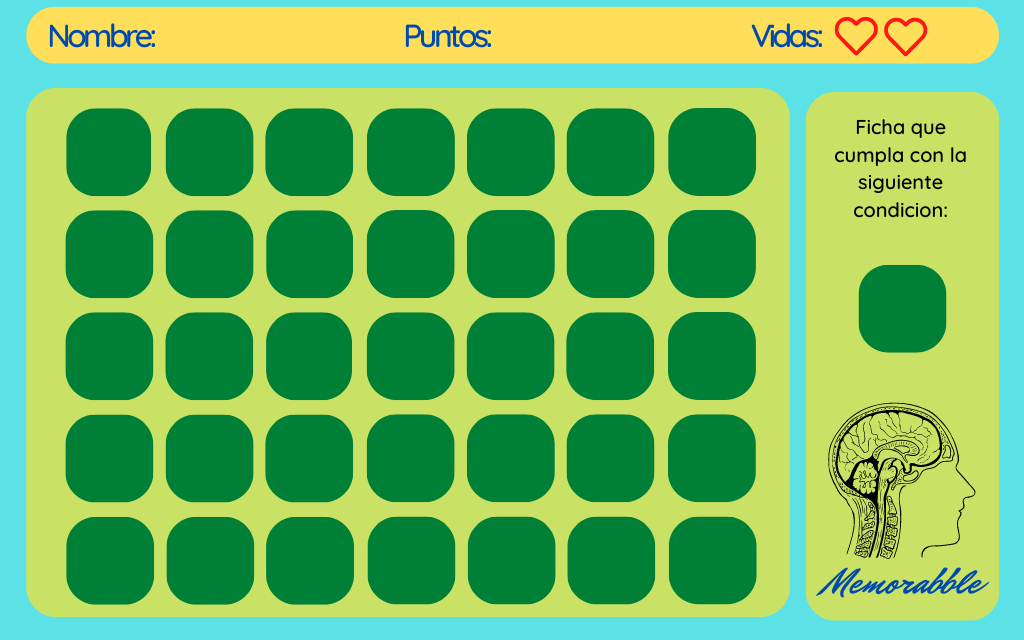
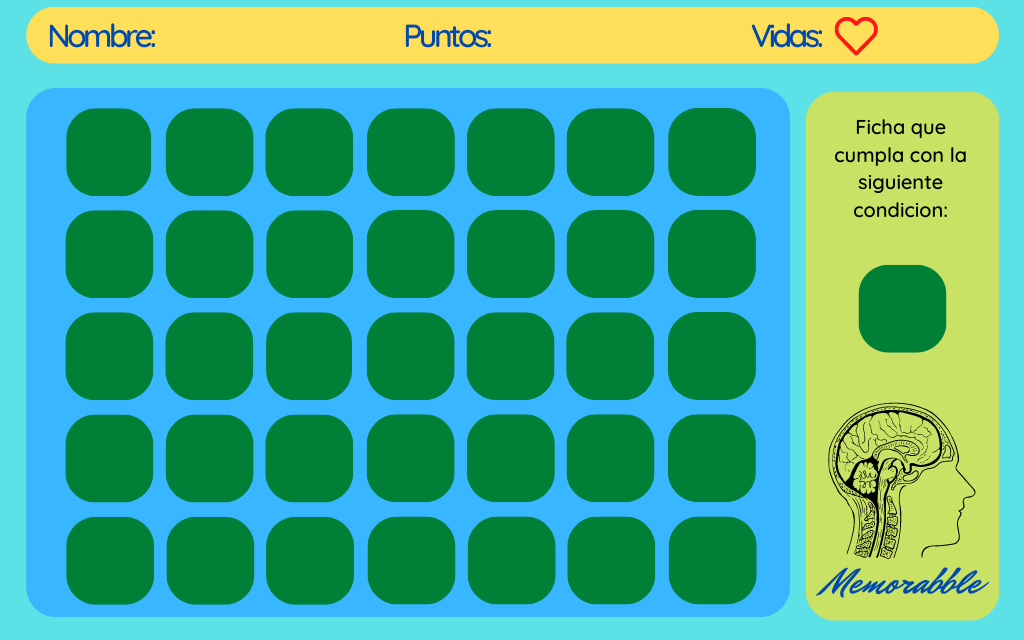
Finalización del proyecto

Changed region(s): [[0.0, 0.125, 0.7812, 0.9688], [0.8438, 0.0312, 0.9062, 0.0938]]

diff --git a/src/Controller/ControllerJuego.java b/src/Controller/ControllerJuego.java
@@ -2,7 +2,10 @@ package Controller;
 
 import Modelo.ModeloPrincipal;
 import Vistas.Tarjeta;
+import Vistas.VistaFinal;
 import Vistas.VistaJuego;
+import java.awt.AWTException;
+import java.awt.Robot;
 import java.awt.event.ActionEvent;
 import java.awt.event.ActionListener;
 import java.awt.event.KeyEvent;
@@ -28,11 +31,15 @@ public final class ControllerJuego{
     private final ModeloPrincipal modelo;
     private final VistaJuego vistaJuego;
     private ArrayList<Integer> tarjetaActualActiva;
+    private ArrayList<Integer> tarjetaCorrecta;
+    
     
 
     public ControllerJuego(ModeloPrincipal modelo, VistaJuego vistaJuego){
         this.modelo = modelo;
         this.vistaJuego = vistaJuego;
+        
+        modelo.getJugador().comezarTiempo();
         
         vistaJuego.iniciarComponentesAhorcado();
         vistaJuego.configurarVistaAhorcado();
@@ -43,6 +50,15 @@ public final class ControllerJuego{
         vistaJuego.setNombre(modelo.getJugador().getNombre());
         
         agregarControllers();
+        
+        Robot r = null;
+        try {
+            r = new Robot();
+            r.keyPress(KeyEvent.VK_ENTER);
+            r.keyRelease(KeyEvent.VK_ENTER);
+        } catch (AWTException ex) {
+            Logger.getLogger(ControllerJuego.class.getName()).log(Level.SEVERE, null, ex);
+        }
         
         //
     }
@@ -63,12 +79,50 @@ public final class ControllerJuego{
         public void mouseClicked(MouseEvent event){
             JLabel cualquierLetraPresionada = vistaJuego.saberSiUnaTarjetaFuePresionada( (JLabel) event.getSource());
             
-            
-            if (event.getSource() == cualquierLetraPresionada){
+            if(modelo.getJugador().getVidas() != 1){
+                if (event.getSource() == cualquierLetraPresionada){
                 Tarjeta tarjetaPresionada = vistaJuego.saberTarjetaPresionada((JLabel) event.getSource());
-                System.out.println("Se precionó");
                 System.out.println(tarjetaPresionada.getPosicionTablero());
+                
+                System.out.println("Tarjeta Correcta: " + tarjetaCorrecta);
+                
+                    if(tarjetaCorrecta.equals(tarjetaPresionada.getPosicionTablero())){
+                        modelo.getJugador().setPuntos(modelo.getJugador().getPuntos() + 100);
+                        modelo.getJugador().setAciertos(modelo.getJugador().getAciertos() + 1);
+                        System.out.println("Vidas Jugador: " + modelo.getJugador().getVidas());
+                        System.out.println("Aciertos Jugador: " + modelo.getJugador().getAciertos());
+                        vistaJuego.setPuntos(modelo.getJugador().getPuntos());
+                    }else{
+                        modelo.getJugador().setVidas(modelo.getJugador().getVidas() - 1);
+                        vistaJuego.cambiarImagenFondo(modelo.getJugador().getVidas());
+                        System.out.println("Vidas Jugador: " + modelo.getJugador().getVidas());
+                        System.out.println("Aciertos Jugador: " + modelo.getJugador().getAciertos());
+                    }
+                }else{
+                    
+                }
+                
+                Robot r = null;
+                try {
+                    r = new Robot();
+                    r.keyPress(KeyEvent.VK_ENTER);
+                    r.keyRelease(KeyEvent.VK_END);
+                } catch (AWTException ex) {
+                    Logger.getLogger(ControllerJuego.class.getName()).log(Level.SEVERE, null, ex);
+                    
+                }
+                
+            }else{
+                modelo.getJugador().terminarTiempo();
+                modelo.getJugador().calcularTiempo();
+                vistaJuego.dispose();
+                VistaFinal vistafinal = new VistaFinal();
+                ControllerFinal controller = new ControllerFinal(modelo, vistafinal);
             }
+            
+            
+            
+            
 
         }
         
@@ -164,17 +218,49 @@ public final class ControllerJuego{
                     }
                 }
                 case KeyEvent.VK_SPACE -> {
+                    Robot r = null;
+                    try {
+                        r = new Robot();
+                    } catch (AWTException ex) {
+                        Logger.getLogger(ControllerJuego.class.getName()).log(Level.SEVERE, null, ex);
+                    }
+                        r.keyPress(KeyEvent.VK_ENTER);
+                        r.keyRelease(KeyEvent.VK_ENTER);
+                                        
+ 
+                }
+                case KeyEvent.VK_W -> {
+                    try {   
+
+                        Thread.sleep(2000);
+                       vistaJuego.limpiarTablero();
+                        System.out.println("hola");
+                    } catch (Exception e) {
+                        System.out.println("e");
+                    }  
                     
+                    
+ 
                 }
                 case KeyEvent.VK_ENTER -> {
                     ArrayList<ArrayList<Integer>> coordenadas = modelo.getJuego().coordenadaAleatoria(5);
                     ArrayList<String> colores = modelo.getJuego().colorAleatorio(5);
                     ArrayList<String> figuras = modelo.getJuego().figuraAleatoria(5);
-
+                    
+                    
                     vistaJuego.ponerFichasEnJuego(coordenadas, colores, figuras);
+                    vistaJuego.colocarTarjetaCorrecta(coordenadas.get(0), colores.get(0), figuras.get(0));
+                    tarjetaCorrecta = coordenadas.get(0);
                     
-                               
-                    
+                    Robot r = null;
+                    try {
+                        r = new Robot();
+                        r.keyPress(KeyEvent.VK_W);
+                        r.keyRelease(KeyEvent.VK_W);
+                    } catch (AWTException ex) {
+                        Logger.getLogger(ControllerJuego.class.getName()).log(Level.SEVERE, null, ex);
+                    }
+                        
                 }
                 default -> {
                 }

diff --git a/src/Vistas/VistaFinal.java b/src/Vistas/VistaFinal.java
@@ -23,10 +23,9 @@ public class VistaFinal extends JFrame{
     private JLabel lblCerrar;
     private JLabel lblVolver;
     
-    private JLabel lblJugadas;
-    private JLabel lblPerdidas;
-    private JLabel lblGanadas;
     private JLabel lblNombre;
+    private JLabel lblTiempo;
+    private JLabel lblPuntos;
     
     private JPanel jpContenidoGeneral;
 
@@ -66,17 +65,14 @@ public class VistaFinal extends JFrame{
         lblVolver.addMouseListener(listenControles);
     }
     
-    public void setGanadas(double nuevoNombre){
-        lblGanadas.setText(String.valueOf(nuevoNombre));
+    public void setTiempo(String nuevoTiempo){
+        lblTiempo.setText(String.valueOf(nuevoTiempo));
     }
     
-    public void setPerdidas(double nuevoNombre){
-        lblPerdidas.setText(String.valueOf(nuevoNombre));
+    public void setPuntos(int nuevosPuntos){
+        lblPuntos.setText(String.valueOf(nuevosPuntos));
     }
     
-    public void setJugadas(double nuevoNombre){
-        lblJugadas.setText(String.valueOf(nuevoNombre));
-    }
     
     public void setNombre(String nuevoNombre){
         if(nuevoNombre.length() > 10){
@@ -99,9 +95,9 @@ public class VistaFinal extends JFrame{
     public void asignacionImagenesALabels(){
         /* Cargado de imagenes */
         
-        Icon imagenFinal = new ImageIcon("src\\Imagenes\\27-Final-img.gif");
-        Icon imagenVolver = new ImageIcon("src\\Imagenes\\13-Volver-img.gif");
-        Icon imagenCerrar = new ImageIcon("src\\Imagenes\\04-Cerrar-img.gif");
+        Icon imagenFinal = new ImageIcon("src\\Imagenes\\27-Final-img.png");
+        Icon imagenVolver = new ImageIcon("src\\Imagenes\\13-Volver-img.png");
+        Icon imagenCerrar = new ImageIcon("src\\Imagenes\\04-Cerrar-img.png");
         
         /* Inicializacion de imagenes */
         
@@ -125,10 +121,9 @@ public class VistaFinal extends JFrame{
     }   
     
     public void posicionarElementos(){
-        lblNombre.setBounds(250, 230 , 500, 50);
-        lblJugadas.setBounds(465, 330 , 500, 50);
-        lblGanadas.setBounds(531, 430 , 500, 50);
-        lblPerdidas.setBounds(531, 530 , 500, 50);
+        lblNombre.setBounds(250,295, 500, 50);
+        lblTiempo.setBounds(250,425 , 500, 50);
+        lblPuntos.setBounds(250,355 , 500, 50);
         lblFinal.setBounds(0,0,1024,640);
         lblCerrar.setBounds(930,10,240,80);
         lblVolver.setBounds(-150,10,240,80);
@@ -138,26 +133,22 @@ public class VistaFinal extends JFrame{
         jpContenidoGeneral.add(lblNombre);
         jpContenidoGeneral.add(lblCerrar);
         jpContenidoGeneral.add(lblVolver);
-        jpContenidoGeneral.add(lblGanadas);
-        jpContenidoGeneral.add(lblPerdidas);
-        jpContenidoGeneral.add(lblJugadas);
+        jpContenidoGeneral.add(lblTiempo);
+        jpContenidoGeneral.add(lblPuntos);
         jpContenidoGeneral.add(lblFinal);
     }
     
     public void configurarLabelsDeTexto(){
-        lblGanadas = new JLabel();
-        lblJugadas = new JLabel();
-        lblPerdidas = new JLabel();
+        lblTiempo = new JLabel();
+        lblPuntos = new JLabel();
         lblNombre = new JLabel();
         
         lblNombre.setForeground(Color.WHITE);
         lblNombre.setFont(new Font("arial", Font.BOLD, 30));
-        lblPerdidas.setForeground(Color.WHITE);
-        lblPerdidas.setFont(new Font("arial", Font.BOLD, 30));
-        lblJugadas.setForeground(Color.WHITE);
-        lblJugadas.setFont(new Font("arial", Font.BOLD, 30));
-        lblGanadas.setForeground(Color.WHITE);
-        lblGanadas.setFont(new Font("arial", Font.BOLD, 30));
+        lblTiempo.setForeground(Color.WHITE);
+        lblTiempo.setFont(new Font("arial", Font.BOLD, 30));
+        lblPuntos.setForeground(Color.WHITE);
+        lblPuntos.setFont(new Font("arial", Font.BOLD, 30));
     }
     
     

diff --git a/src/Vistas/VistaJuego.java b/src/Vistas/VistaJuego.java
@@ -152,6 +152,18 @@ public class VistaJuego extends JFrame{
 
     }
     
+    public void colocarTarjetaCorrecta(ArrayList<Integer> coordenada, String color, String figura){
+        
+        Tarjeta nuevaTarjeta = new Tarjeta();
+        jpContenidoGeneral.add(nuevaTarjeta.getImagenTarjeta(),3);
+        tarjetas.add(nuevaTarjeta);
+        nuevaTarjeta.cambiarTarjetaConFigura(figura, color);
+        nuevaTarjeta.getImagenTarjeta().setBounds(858, 265, 90, 90);
+        
+
+
+    }
+    
     public void limpiarTablero(){
         
         for (Tarjeta tarjeta: tarjetas) {
@@ -246,8 +258,13 @@ public class VistaJuego extends JFrame{
         }
     }
     
-    public void setIntentos(int numeroIntentos){
-        lblPuntos.setText(String.valueOf(numeroIntentos));
+    public void setPuntos(int numeroPuntos){
+        lblPuntos.setText(String.valueOf(numeroPuntos));
+    }
+    
+    public void cambiarImagenFondo(int vidas){
+        Icon imagenFondo = new ImageIcon("src\\Imagenes\\24-FondoJuego"+ vidas +"-img.png");
+        lblFondoJuego.setIcon(imagenFondo);
     }
     
     

diff --git a/src/Controller/ControllerFinal.java b/src/Controller/ControllerFinal.java
@@ -28,6 +28,8 @@ public class ControllerFinal {
         vistaFinal.configurarVistaFinal();
         
         vistaFinal.setNombre(modelo.getJugador().getNombre());
+        vistaFinal.setPuntos(modelo.getJugador().getPuntos());
+        vistaFinal.setTiempo("" + modelo.getJugador().getMinutos() + ":" + modelo.getJugador().getSegundos());
         
         agregarControllers();
     }
@@ -58,6 +60,8 @@ public class ControllerFinal {
         public void terminarPartida(){
             if (JOptionPane.showConfirmDialog(null, "¿Quieres seguir jugando?", "Mensaje", JOptionPane.YES_NO_OPTION) == JOptionPane.YES_OPTION) {
                 vistaFinal.dispose();
+                modelo.getJugador().setVidas(3);
+                modelo.getJugador().setPuntos(0);
                 VistaPrincipal vista = new VistaPrincipal();
                 ControllerPrincipal controller = new ControllerPrincipal(modelo, vista);
                             

diff --git a/src/Modelo/Jugador.java b/src/Modelo/Jugador.java
@@ -28,8 +28,10 @@ public class Jugador{
     private Duration finalPartidaTime;
     private int minutos;
     private int segundos;
+    private int aciertos;
 
     public Jugador() {
+        this.vidas = 3;
     }
     
     public void comezarTiempo(){
@@ -103,6 +105,16 @@ public class Jugador{
     public void setSegundos(int segundos) {
         this.segundos = segundos;
     }
+
+    public int getAciertos() {
+        return aciertos;
+    }
+
+    public void setAciertos(int aciertos) {
+        this.aciertos = aciertos;
+    }
+    
+    
 
   
 }

diff --git a/src/Vistas/Tarjeta.java b/src/Vistas/Tarjeta.java
@@ -26,6 +26,13 @@ public class Tarjeta extends JFrame{
         this.imagenTarjeta = new JLabel(imagenTarjetaInactiva);
     }
     
+    public Tarjeta() {
+        this.posicionX = posicionX;
+        this.posicionY = posicionY;
+        Icon imagenTarjetaInactiva = new ImageIcon("src\\Imagenes\\Tarjetas\\00-TarjetaInactiva-img.png");
+        this.imagenTarjeta = new JLabel(imagenTarjetaInactiva);
+    }
+    
     
     public void cambiarActivo(){
         Icon imagenTarjetaActiva = new ImageIcon("src\\Imagenes\\Tarjetas\\00-TarjetaActiva-img.png");
